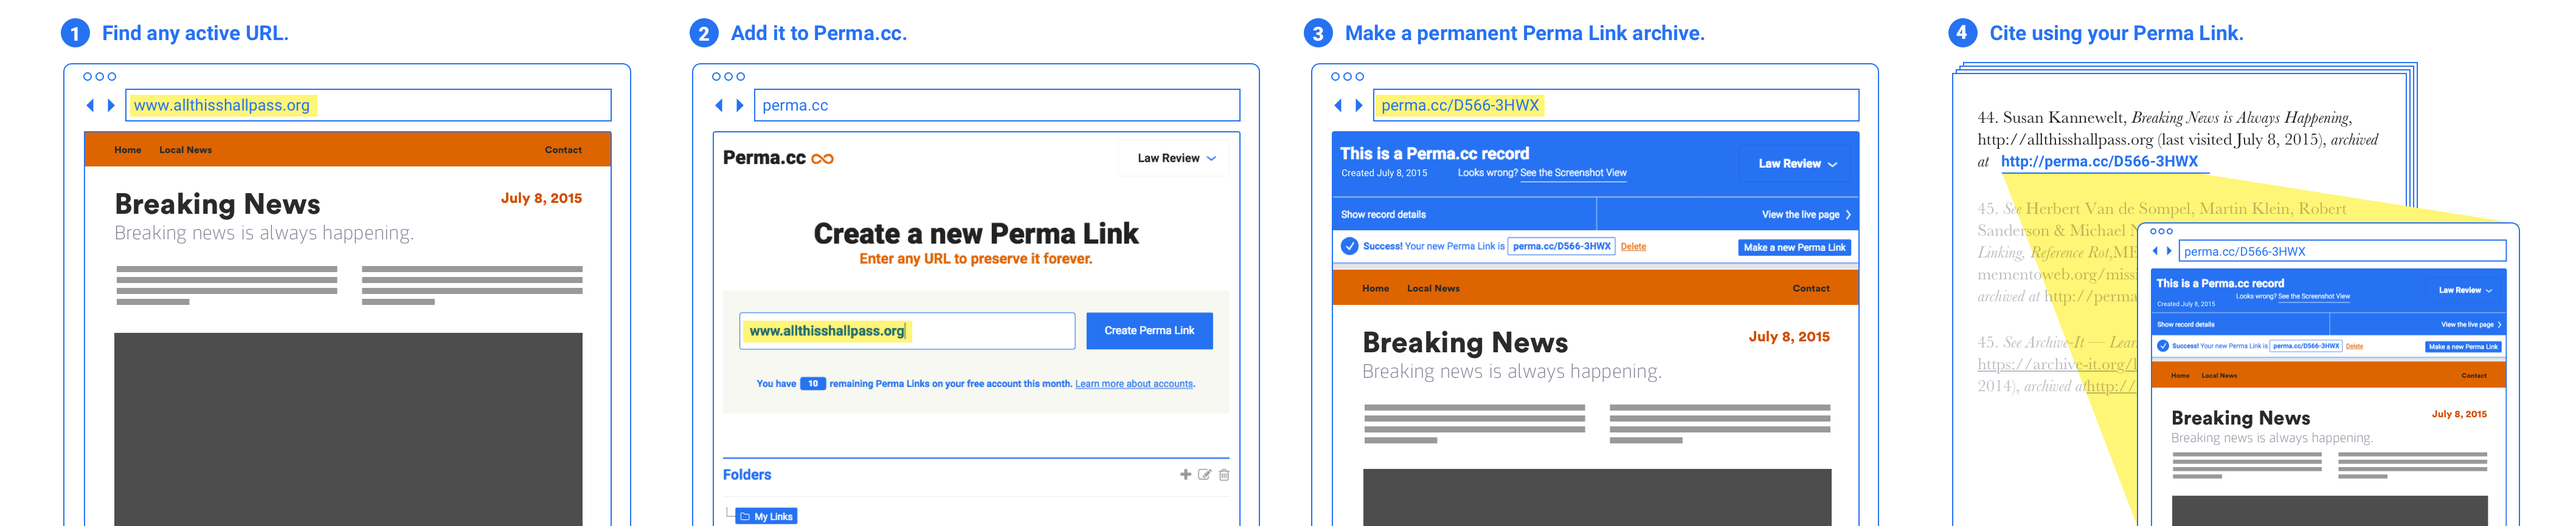
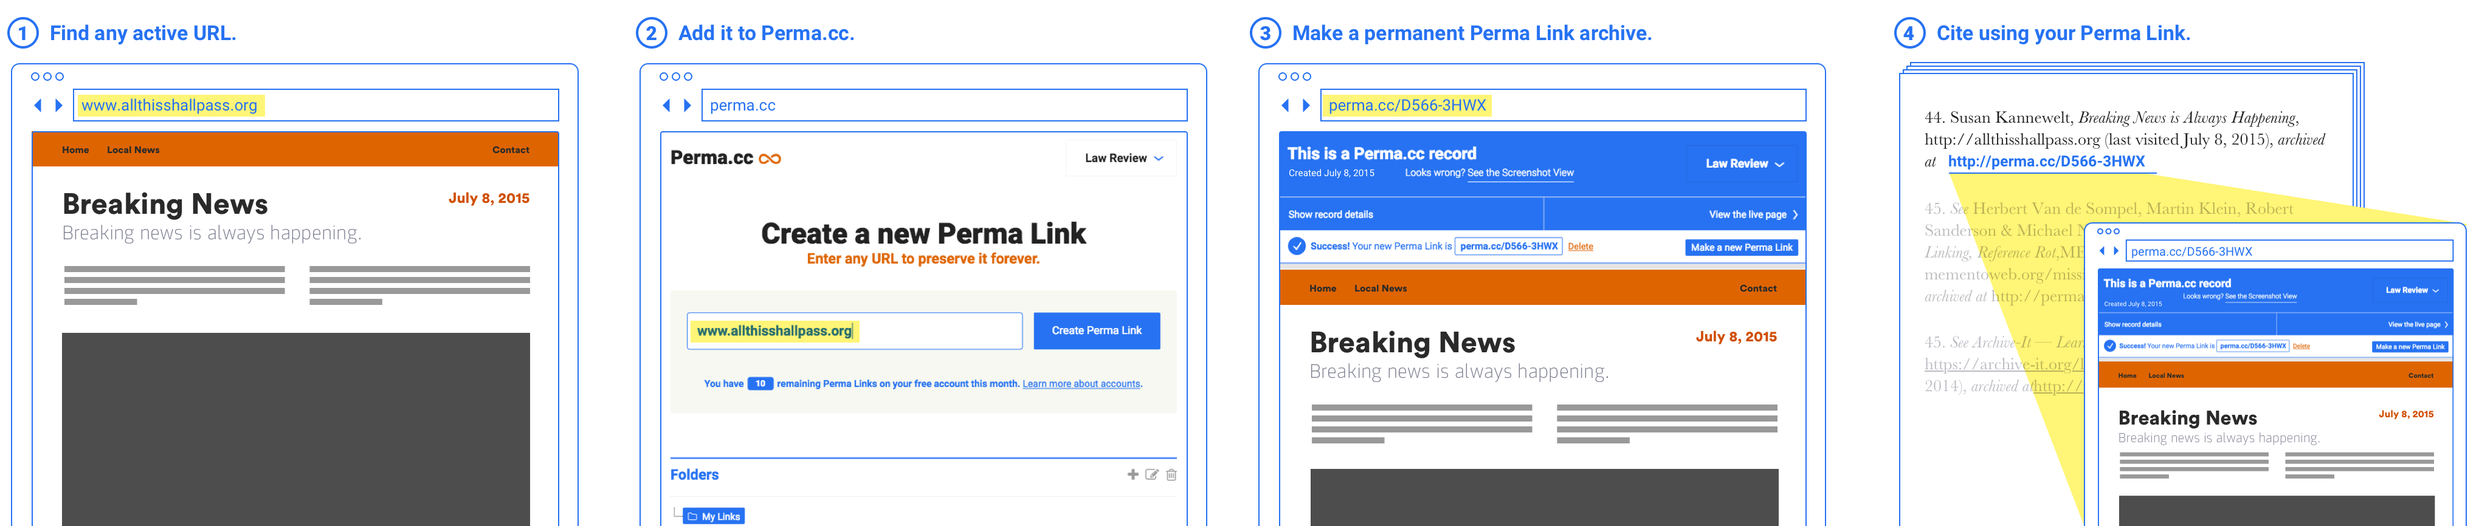
more native solution for hero

diff --git a/perma_web/perma/templates/landing.html b/perma_web/perma/templates/landing.html
@@ -42,10 +42,41 @@
 			</div>
 		</div>
     </div>
-    <div class="container-fluid">
-		<div class="figure figure-hero">
-            <img src="{{ STATIC_URL }}img/perma-hero.png" height="400" width="800" class="img-responsive" alt="Perma.cc prevents link rot" />
-		</div>
+    <div class="container-hero">
+    	<div class="row">
+    		<div class="col-xs-6 col-md-3">
+    			<p class="caption-hero"><span class="num">1</span> Find any active URL.</p>
+                <img 	src="{{ STATIC_URL }}img/create-step-1.png"
+                		height="400" 
+                		width="400" 
+                		class="img-responsive" 
+                		alt="Perma Step 2" />
+    		</div>
+    		<div class="col-xs-6 col-md-3">
+    			<p class="caption-hero"><span class="num">2</span> Add it to Perma.cc.</p>
+                <img 	src="{{ STATIC_URL }}img/create-step-2.png"
+                		height="400" 
+                		width="400" 
+                		class="img-responsive" 
+                		alt="Perma Step 2" />
+    		</div>
+    		<div class="col-xs-6 col-md-3">
+    			<p class="caption-hero"><span class="num">3</span> Make a permanent Perma Link archive.</p>
+                <img 	src="{{ STATIC_URL }}img/create-step-3.png"
+                		height="400" 
+                		width="400" 
+                		class="img-responsive" 
+                		alt="Perma Step 3" />
+    		</div>
+    		<div class="col-xs-6 col-md-3">
+    			<p class="caption-hero"><span class="num">4</span> Cite using your Perma Link.</p>
+                <img 	src="{{ STATIC_URL }}img/create-step-4.png"
+                		height="400" 
+                		width="400" 
+                		class="img-responsive" 
+                		alt="Perma Step 4" />
+    		</div>
+    	</div>
     </div>
 </section>
 

diff --git a/perma_web/static/css/style-responsive.scss b/perma_web/static/css/style-responsive.scss
@@ -4207,11 +4207,34 @@ section {
 	}
 }
 
-.figure-hero {
-	padding: $grid * 6 $double 0;
-	img {
-		width: 100%;
-		max-width: 1800px;
+.container-hero {
+	@extend .style-container;
+	max-width: 1800px;
+	margin: 0 auto;
+	padding: $grid * 8 $grid * 8 0;
+}
+
+p.caption-hero {
+	font-family: $font-hed-alt;
+	color: $color-blue;
+	font-weight: 700;
+	font-size: 13px;
+	padding-bottom: $grid;
+	margin-bottom: 0;
+	position: relative;
+	span.num {
+		display: inline-block;
+	    padding: 0;
+	    border: 1px solid;
+	    position: relative;
+	    bottom: 0;
+	    border-radius: 3em;
+	    width: 1.5em;
+	    height: 1.5em;
+	    text-align: center;
+	    vertical-align: text-bottom;
+	    font-size: 11px;
+	    margin-right: .2em;
 	}
 }
 
